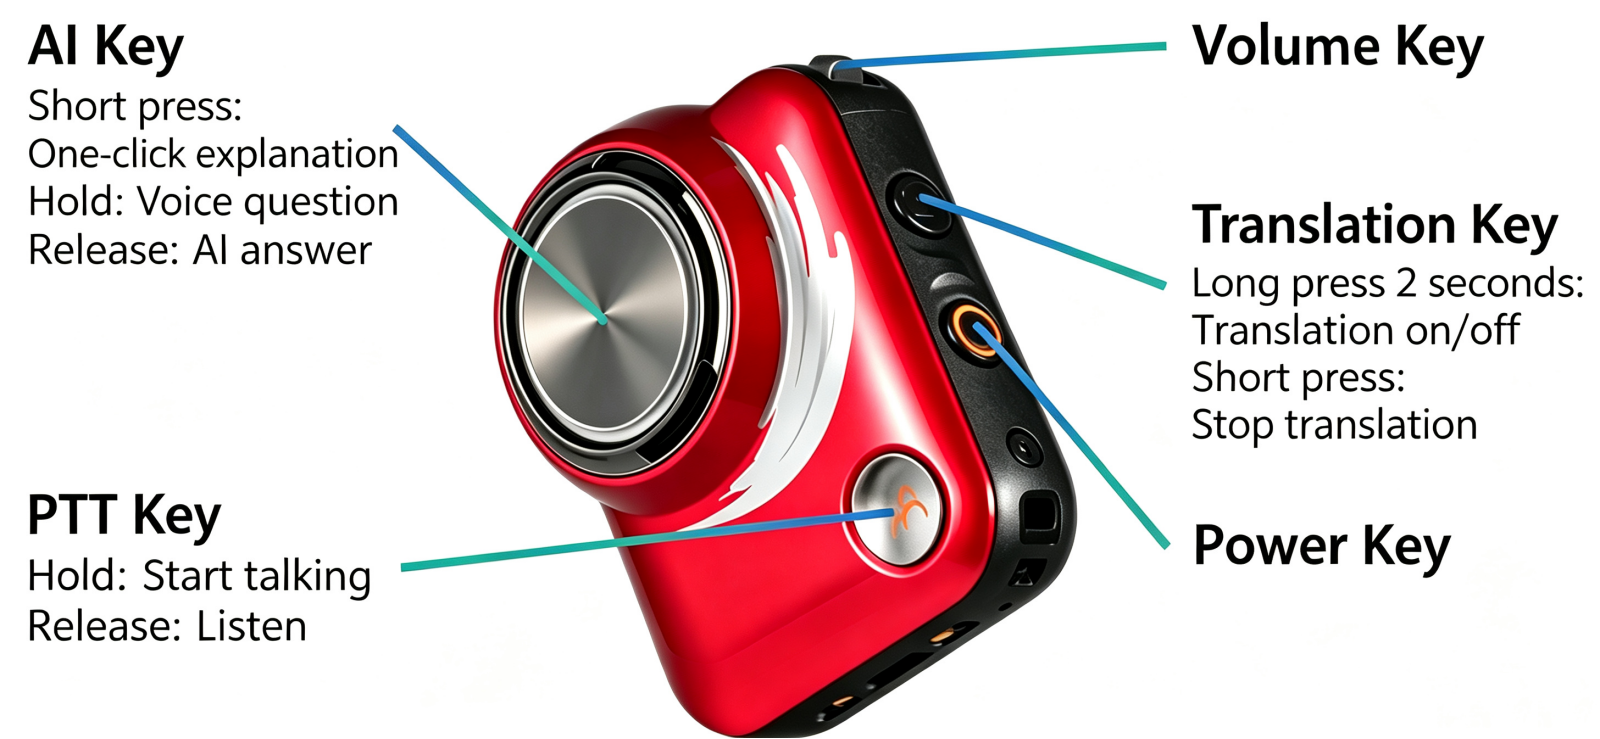
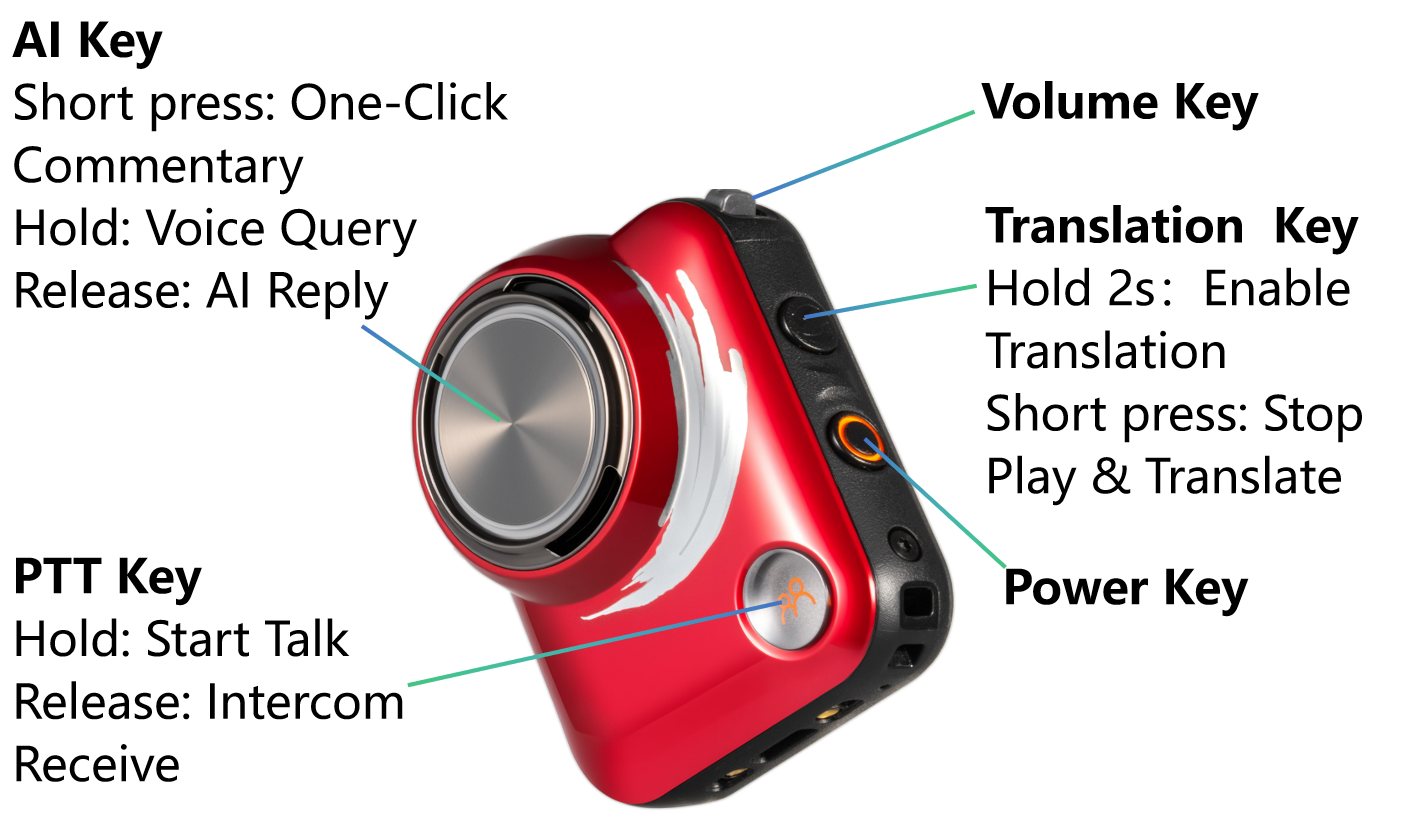
至臻版设备图替换+AI问答文案统一(停止AI问答/AI reply)；纯臻版停止语音回答→停止AI问答

diff --git a/ai-travel-premium-guide-en.html b/ai-travel-premium-guide-en.html
@@ -332,7 +332,7 @@
           <ul class="guide-slide__op-steps">
             <li class="guide-slide__op-step">
               <span class="guide-slide__op-step-num">1</span>
-              <span><strong>Hold "AI Key"</strong> for a voice question, <strong>release</strong> to get the AI answer; during the AI answer, single-click <strong>"Translate Key"</strong> to stop the guide</span>
+              <span><strong>Hold the AI Key</strong> to speak your query; <strong>release it</strong> for AI reply. <strong>Short-press Translation Key</strong> to stop audio playback</span>
             </li>
           </ul>
         </div>

diff --git a/ai-travel-premium-guide-zh.html b/ai-travel-premium-guide-zh.html
@@ -332,7 +332,7 @@
           <ul class="guide-slide__op-steps">
             <li class="guide-slide__op-step">
               <span class="guide-slide__op-step-num">1</span>
-              <span><strong>按住"AI键"</strong>语音提问，<strong>松开"AI键"</strong>等待AI回答，AI回答过程中可单击<strong>"翻译键"</strong>停止讲解</span>
+              <span><strong>按住"AI键"</strong>语音提问，<strong>松开"AI键"</strong>等待AI回答，AI回答过程中可单击<strong>"翻译键"</strong>停止AI问答</span>
             </li>
           </ul>
         </div>

diff --git a/ai-travel-pure-guide-en.html b/ai-travel-pure-guide-en.html
@@ -323,7 +323,7 @@
             </li>
             <li class="guide-slide__op-step">
               <span class="guide-slide__op-step-num">2</span>
-              <span><strong>Single-click "Power Key"</strong> to stop voice reply</span>
+              <span><strong>Single-click "Power Key"</strong> to stop AI reply</span>
             </li>
           </ul>
         </div>

diff --git a/ai-travel-pure-guide-zh.html b/ai-travel-pure-guide-zh.html
@@ -323,7 +323,7 @@
             </li>
             <li class="guide-slide__op-step">
               <span class="guide-slide__op-step-num">2</span>
-              <span><strong>单击"电源键"</strong>停止语音回答</span>
+              <span><strong>单击"电源键"</strong>停止AI问答</span>
             </li>
           </ul>
         </div>
